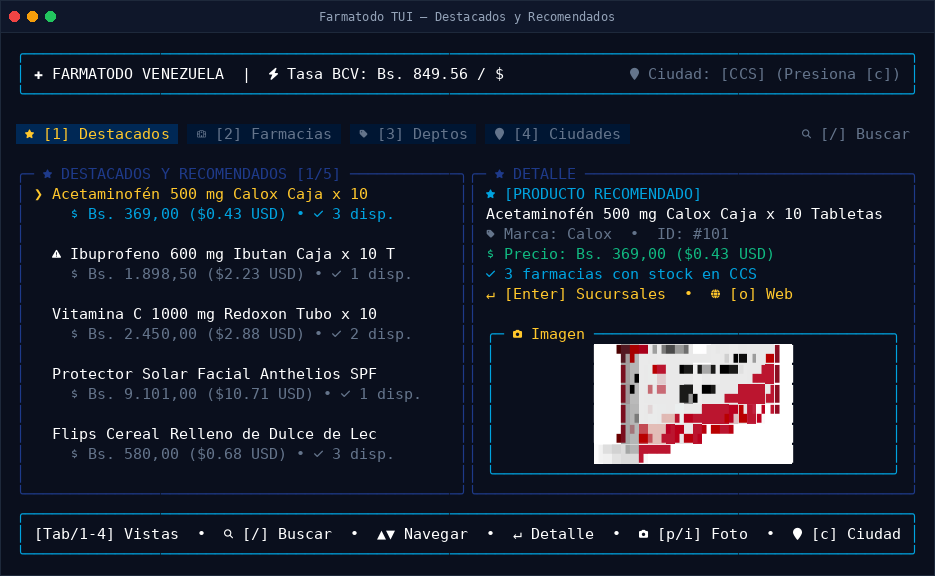
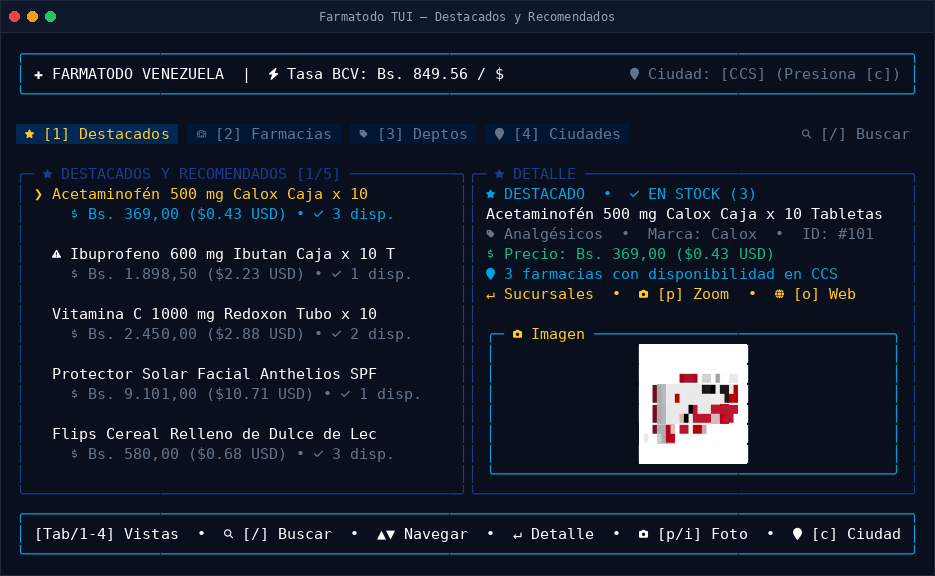
feat(tui): expand image size dynamically and enrich product detail panel layout

diff --git a/src/tui.ts b/src/tui.ts
@@ -743,6 +743,8 @@ export class FarmatodoTUI {
 
     const curProd = this.getCurrentProduct();
     if (this.activeTab === "products" && curProd) {
+      const panelWidth = Math.max(28, Math.floor(this.renderer.width * 0.5) - 6);
+
       // 1. Ficha de detalles del producto
       const detailText = new BoxRenderable(this.renderer, {
         flexDirection: "column",
@@ -751,12 +753,24 @@ export class FarmatodoTUI {
       });
       this.rightDetailBox.add(detailText);
 
+      // Badges superiores de clasificación
+      const deptoName = curProd.departments?.[0] || "Salud y Medicamentos";
+      const isRx = curProd.requirePrescription === "true" || curProd.requirePrescription === true;
+      const stockCount = curProd.stores_with_stock?.length || 0;
+
+      const headerBadges = [
+        isRecommended ? `${G.sparkles} DESTACADO` : `${G.pill} ${deptoName.slice(0, 18)}`,
+        isRx ? `${G.warning} RÉCIPE` : null,
+        stockCount > 0 ? `${G.check} EN STOCK (${stockCount})` : `✗ AGOTADO`
+      ].filter(Boolean).join(`  ${G.bullet}  `);
+
       detailText.add(new TextRenderable(this.renderer, {
-        content: isRecommended ? `${G.sparkles} [PRODUCTO RECOMENDADO]` : `${G.pill} [FICHA DE MEDICAMENTO]`,
-        fg: THEME.blueAccent
+        content: headerBadges,
+        fg: isRx ? THEME.rxRed : THEME.blueAccent
       }));
 
-      const descLines = wrapText(curProd.mediaDescription || "", 44);
+      // Nombre / Presentación del producto con wrapping seguro
+      const descLines = wrapText(curProd.mediaDescription || "", panelWidth);
       for (const line of descLines.slice(0, 2)) {
         detailText.add(new TextRenderable(this.renderer, {
           content: line,
@@ -764,37 +778,51 @@ export class FarmatodoTUI {
         }));
       }
 
+      // Categoría / Marca / ID
+      const metaParts: string[] = [];
+      if (curProd.subCategory) {
+        metaParts.push(curProd.subCategory.slice(0, 16));
+      }
+      metaParts.push(`Marca: ${(curProd.marca || "N/A").slice(0, 14)}`);
+      metaParts.push(`ID: #${curProd.id}`);
 
       detailText.add(new TextRenderable(this.renderer, {
-        content: `${G.tag} Marca: ${(curProd.marca || "N/A").slice(0, 20)}  ${G.bullet}  ID: #${curProd.id}`,
+        content: `${G.tag} ${metaParts.join(`  ${G.bullet}  `)}`,
         fg: THEME.grayMuted
       }));
 
+      // Precios en Bolívares y Dólares
+      const priceBs = formatBs(curProd.fullPrice);
+      const priceUsd = formatUsd(curProd.fullPrice, this.exchangeRate);
       detailText.add(new TextRenderable(this.renderer, {
-        content: `${G.dollar} Precio: ${formatBs(curProd.fullPrice)} (${formatUsd(curProd.fullPrice, this.exchangeRate)})`,
+        content: `${G.dollar} Precio: ${priceBs} (${priceUsd})`,
         fg: THEME.green
       }));
 
-      if (curProd.requirePrescription === "true" || curProd.requirePrescription === true) {
+      // Aviso de récipe obligatorio si aplica
+      if (isRx) {
         detailText.add(new TextRenderable(this.renderer, {
-          content: `${G.warning} [!] Requiere récipe obligatorio`,
+          content: `${G.warning} [!] Requiere presentación de récipe médico`,
           fg: THEME.rxRed
         }));
       }
 
+      // Disponibilidad en la ciudad seleccionada
       detailText.add(new TextRenderable(this.renderer, {
-        content: `${G.check} ${curProd.stores_with_stock?.length || 0} farmacias con stock en ${this.selectedCity}`,
+        content: `${G.city} ${stockCount} farmacias con disponibilidad en ${this.selectedCity}`,
         fg: THEME.blueAccent
       }));
 
+      // Atajos de acción directos (compacto para evitar wraps accidentales)
       detailText.add(new TextRenderable(this.renderer, {
-        content: `${G.enter} [Enter] Sucursales  ${G.bullet}  ${G.globe} [o] Web`,
+        content: `${G.enter} Sucursales  ${G.bullet}  ${G.camera} [p] Zoom  ${G.bullet}  ${G.globe} [o] Web`,
         fg: THEME.gold
       }));
 
-      // 2. Tarjeta permanente de imagen ubicada debajo de los detalles
+      // 2. Tarjeta permanente de imagen: escala dinámicamente ocupando el espacio disponible
       const imageContainer = new BoxRenderable(this.renderer, {
-        height: 8,
+        flexGrow: 1,
+        minHeight: 8,
         width: "100%",
         border: true,
         borderStyle: "rounded",
@@ -804,7 +832,6 @@ export class FarmatodoTUI {
         alignItems: "center",
         justifyContent: "center",
         marginTop: 1,
-        flexShrink: 0,
         overflow: "hidden"
       });
       this.rightDetailBox.add(imageContainer);
@@ -814,15 +841,15 @@ export class FarmatodoTUI {
         if (cached) {
           const img = new ImageRenderable(this.renderer, {
             source: cached,
-            width: 22,
-            height: 6,
-            fit: "contain",
+            width: "100%",
+            height: "100%",
+            fit: "fit",
             protocol: "blocks"
           });
           imageContainer.add(img);
         } else {
           imageContainer.add(new TextRenderable(this.renderer, {
-            content: ` ${G.camera} Cargando imagen...`,
+            content: ` ${G.camera} Cargando imagen oficial...`,
             fg: THEME.grayMuted
           }));
           preloadNativeImage(curProd.mediaImageUrl, () => {
@@ -834,7 +861,7 @@ export class FarmatodoTUI {
         }
       } else {
         imageContainer.add(new TextRenderable(this.renderer, {
-          content: ` ${G.camera} [Sin imagen disponible]`,
+          content: ` ${G.camera} [Sin fotografía oficial disponible]`,
           fg: THEME.grayMuted
         }));
       }
@@ -1028,8 +1055,8 @@ export class FarmatodoTUI {
 
       if (p.mediaImageUrl) {
         const modalImageBox = new BoxRenderable(this.renderer, {
-          width: 22,
-          height: 9,
+          width: 28,
+          height: 12,
           border: true,
           borderStyle: "rounded",
           borderColor: THEME.blueAccent,
@@ -1044,9 +1071,9 @@ export class FarmatodoTUI {
         if (cached) {
           modalImageBox.add(new ImageRenderable(this.renderer, {
             source: cached,
-            width: 18,
-            height: 7,
-            fit: "contain",
+            width: "100%",
+            height: "100%",
+            fit: "fit",
             protocol: "blocks"
           }));
         } else {
